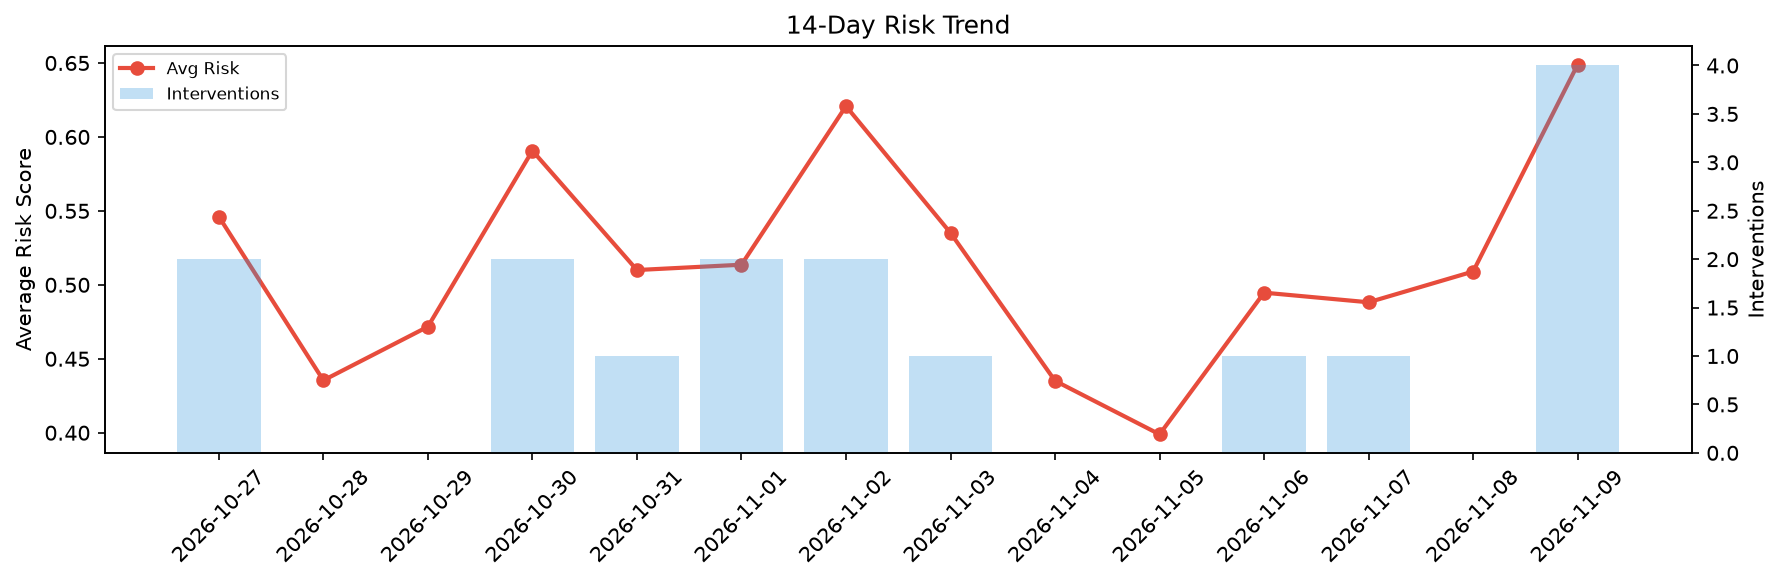
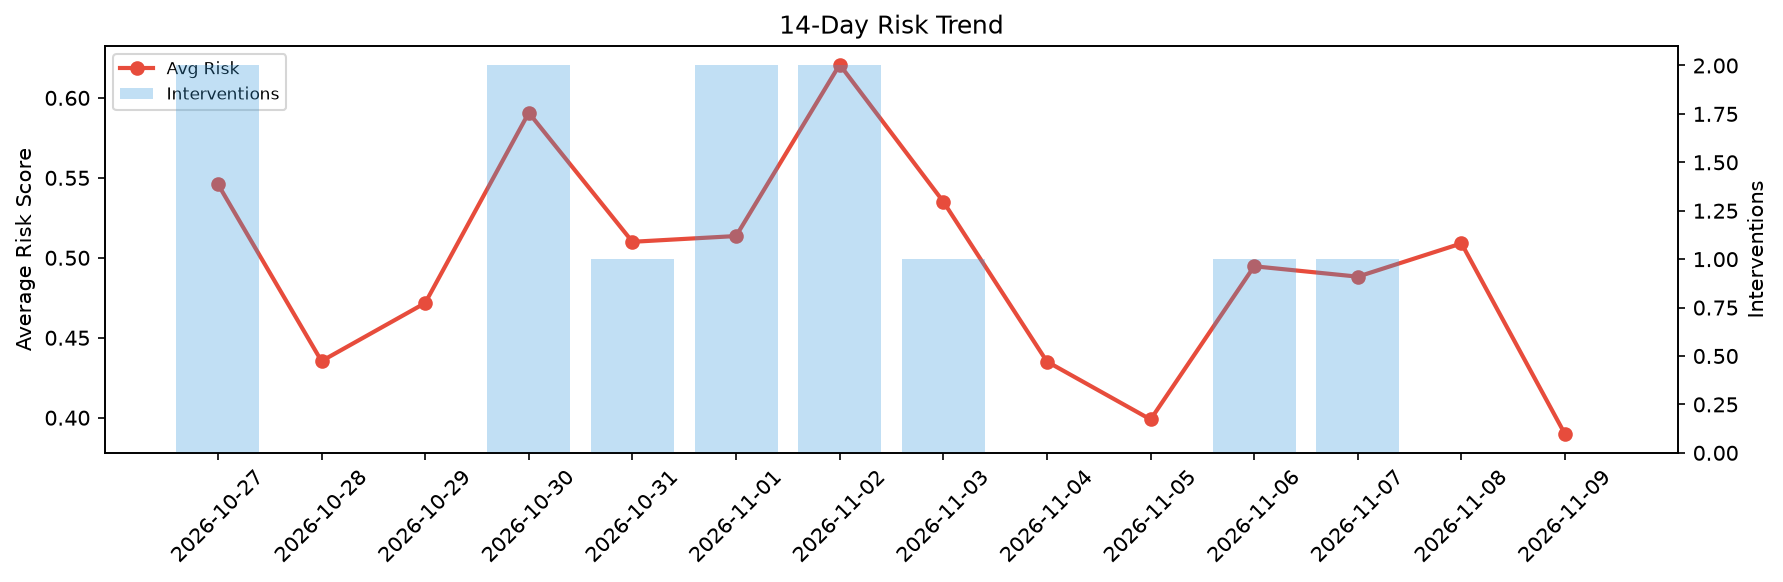
agent-improvement: daily cycle 2026-11-09T23:26

diff --git a/logs/2026-11-09.md b/logs/2026-11-09.md
@@ -1,6 +1,6 @@
 # Agent Improvement Report — 2026-11-09
 
-**Cycle ID:** `4c18d7da` | **Avg Risk:** 0.6489 | **Interventions:** 4/4
+**Cycle ID:** `3bc7584f` | **Avg Risk:** 0.3896 | **Interventions:** 0/4
 
 ![Dashboard](2026-11-09_dashboard.png)
 
@@ -10,18 +10,18 @@
 
 | Domain | Risk Score | Decision | Alerts |
 |--------|-----------|----------|--------|
-| code_review | 0.6198 | intervene | coverage |
-| incident_response | 0.6046 | intervene | severity |
-| data_pipeline | 0.6009 | intervene | freshness |
-| deployment | 0.7701 | intervene | rollback_rate, latency_p99 |
+| code_review | 0.2871 | monitor | none |
+| incident_response | 0.4451 | monitor | mttr |
+| data_pipeline | 0.5916 | monitor | volume_anomaly |
+| deployment | 0.2347 | monitor | none |
 
 ## Delta vs Yesterday
 
 | Domain | Today | Yesterday | Change |
 |--------|-------|-----------|--------|
-| code_review | 0.6198 | 0.5575 | 📈 11.2% |
-| incident_response | 0.6046 | 0.4701 | 📈 28.6% |
-| data_pipeline | 0.6009 | 0.5818 | 📈 3.3% |
-| deployment | 0.7701 | 0.4264 | 📈 80.6% |
+| code_review | 0.2871 | 0.5575 | 📉 -48.5% |
+| incident_response | 0.4451 | 0.4701 | 📉 -5.3% |
+| data_pipeline | 0.5916 | 0.5818 | 📈 1.7% |
+| deployment | 0.2347 | 0.4264 | 📉 -45.0% |
 
-**Refinement:** `{'adjustment': 'tighten_thresholds', 'trend': 'degrading', 'window': 4}`
+**Refinement:** `{'adjustment': 'maintain', 'trend': 'improving', 'window': 4}`
